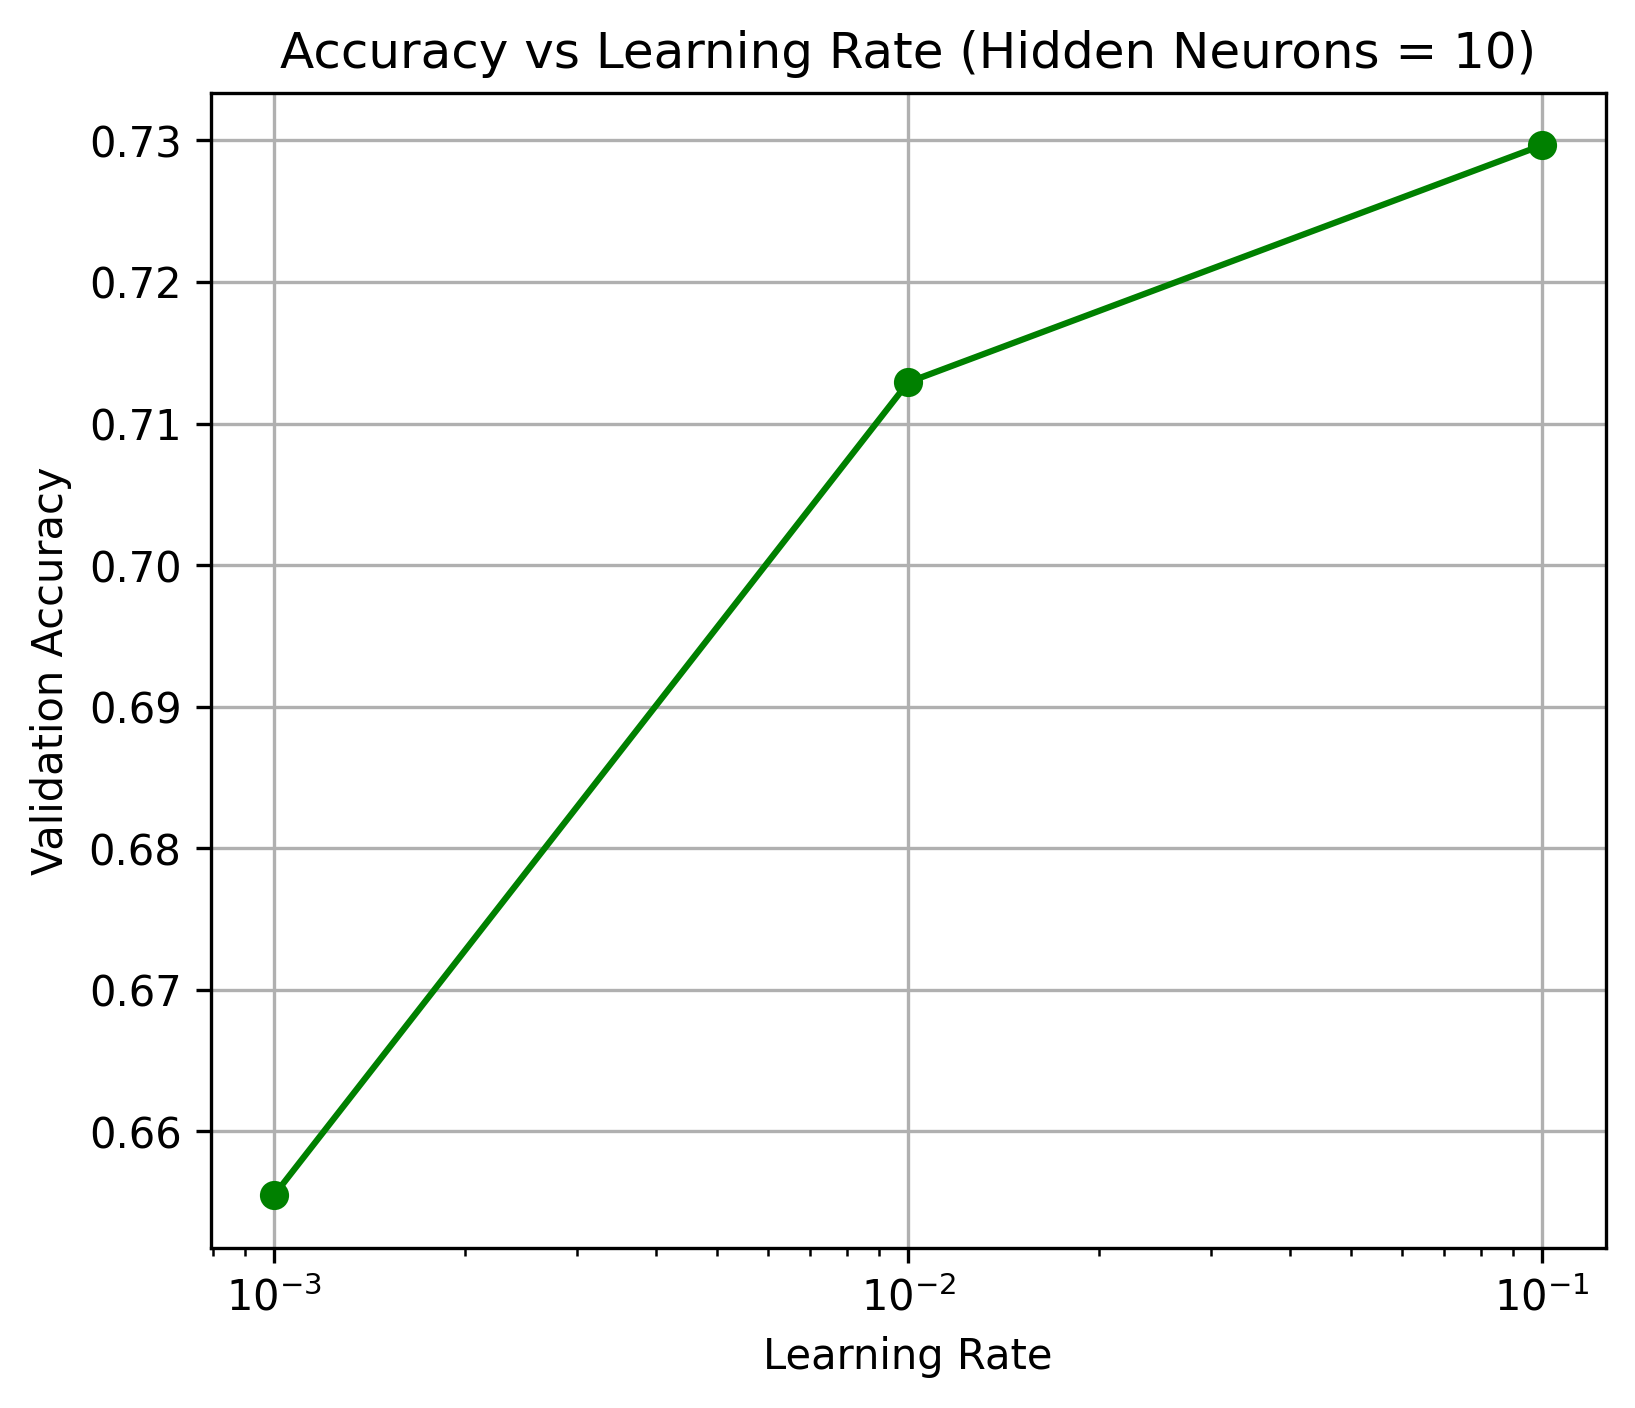
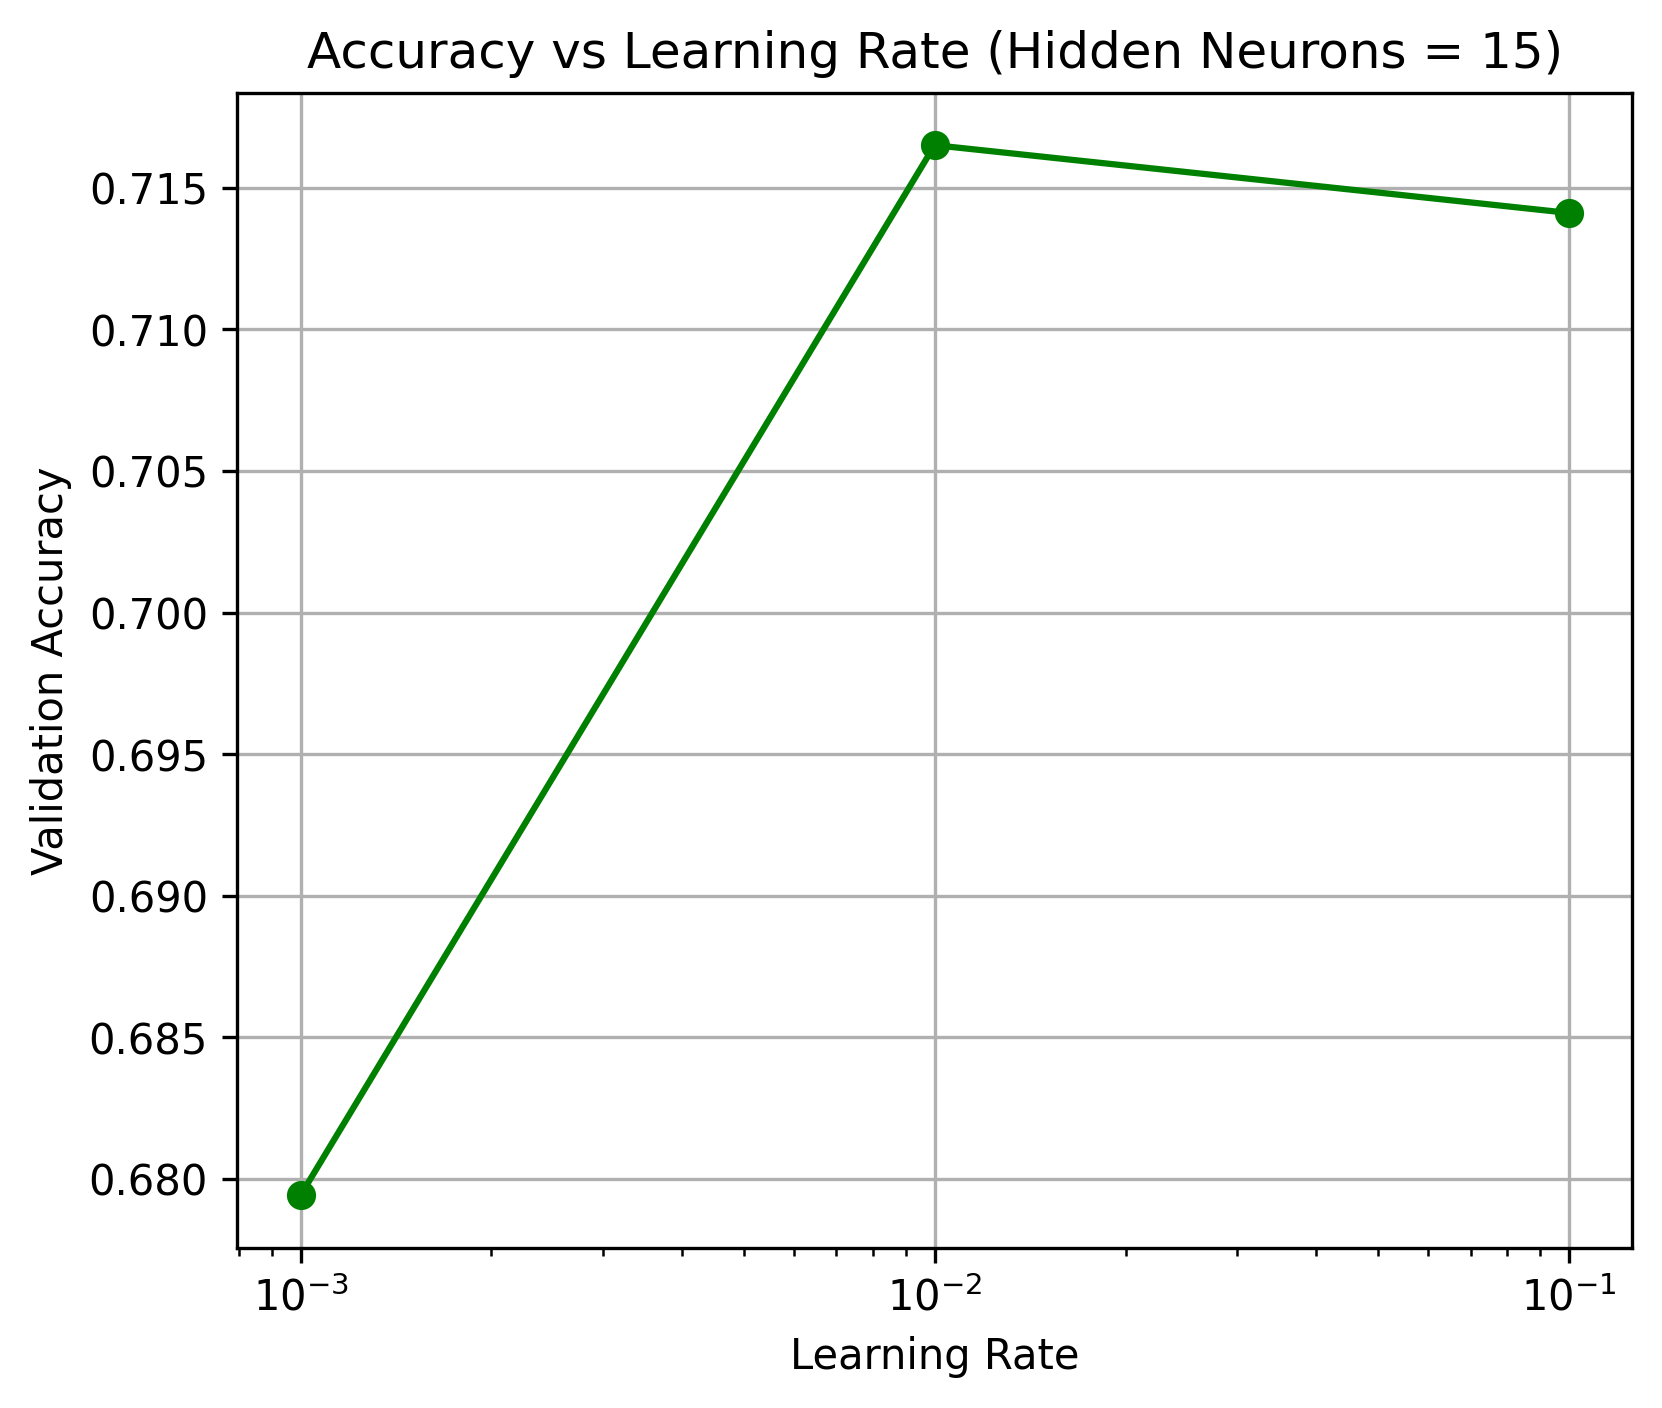
cmt

diff --git a/05MLDataMining/project/model.py b/05MLDataMining/project/model.py
@@ -1,13 +1,19 @@
 import os
+os.environ['TF_CPP_MIN_LOG_LEVEL'] = '3'  # 0 = all logs, 1 = filter INFO, 2 = filter WARNING, 3 = filter ERROR
+import numpy as np
 import pandas as pd
 import matplotlib.pyplot as plt
 import seaborn as sns
+from keras import Input
 from sklearn.model_selection import train_test_split
 from sklearn.preprocessing import StandardScaler
 from tensorflow.keras.layers import Dense
-from tensorflow.keras.optimizers import SGD
+from tensorflow.keras.optimizers import SGD, Adam
 from tensorflow.keras.models import Sequential
 from tensorflow.keras.metrics import AUC
+from sklearn.metrics import confusion_matrix, ConfusionMatrixDisplay, roc_curve, auc
+from sklearn.preprocessing import label_binarize
+from tensorflow.keras.utils import to_categorical
 
 """ Functions for Assessment 3: ZZSC5836 Data Mining and Machine Learning: """
 
@@ -19,12 +25,13 @@ from tensorflow.keras.metrics import AUC
 
 def build_and_train_model(X_train, X_test, y_train, y_test, hidden_neurons, learning_rate=0.01):
     model = Sequential()
-    model.add(Dense(hidden_neurons, activation='relu', input_shape=(X_train.shape[1],)))
+    model.add(Input(shape=(X_train.shape[1],)))
+    model.add(Dense(hidden_neurons, activation='relu'))
     model.add(Dense(4, activation='softmax'))  # 4 classes
     model.compile(optimizer=SGD(learning_rate),
                   loss='sparse_categorical_crossentropy',
                   metrics=['accuracy'])
-    history = model.fit(X_train, y_train, epochs=50, batch_size=32, verbose=0, validation_data=(X_test, y_test))
+    history = model.fit(X_train, y_train, epochs=100, batch_size=32, verbose=0, validation_data=(X_test, y_test))
     accuracy = model.evaluate(X_test, y_test, verbose=0)[1]  # Accuracy
     return accuracy, history
 
@@ -61,8 +68,8 @@ def evaluate_hidden_neurons(df, neuron_options=None):
     return best_neurons, scores
 
 
-""" 3. Investigate the effect of learning rate (using SGD) for the selected dataset
-       (using the optimal number of hidden neurons)."""
+""" # 3. Investigate the effect of learning rate (using SGD) for the selected dataset
+         (using the optimal number of hidden neurons)."""
 
 
 def evaluate_learning_rates(df, best_neurons, learning_rate_options=None):
@@ -95,6 +102,164 @@ def evaluate_learning_rates(df, best_neurons, learning_rate_options=None):
     save_plot('Accuracy-vs-Learning-Rate')
     plt.show(block=False)
     return best_lr, scores
+
+
+""" # 4. Investigate the effect on a different number of hidden layers:  
+         Now modify the model by adding another hidden layer. Use the optimal number of hidden neurons
+         from Step 2 for both the layers and the optimal learning rate from Step 3.
+         Investigate the effect of this change in the number of hidden layers (using SGD). """
+
+
+def evaluate_hidden_layers_effect(df, best_neurons, best_learning_rate):
+    # Split features and target
+    X = df.drop("RingAgeClass", axis=1).values
+    y = df["RingAgeClass"].astype(int).values
+    # Normalize features
+    scaler = StandardScaler()
+    X_scaled = scaler.fit_transform(X)
+    # Train/test split
+    X_train, X_test, y_train, y_test = train_test_split(X_scaled, y, test_size=0.2, random_state=42)
+    def build_model(layers=1):
+        model = Sequential()
+        model.add(Input(shape=(X_train.shape[1],)))
+        model.add(Dense(best_neurons, activation='relu'))
+        if layers == 2:
+            model.add(Dense(best_neurons, activation='relu'))
+        model.add(Dense(4, activation='softmax'))  # 4 classes
+        model.compile(optimizer=SGD(learning_rate=best_learning_rate),
+                      loss='sparse_categorical_crossentropy',
+                      metrics=['accuracy'])
+        return model
+    scores = {}
+    # Single hidden layer
+    model_1 = build_model(layers=1)
+    history_1 = model_1.fit(X_train, y_train, epochs=100, batch_size=32, verbose=0, validation_data=(X_test, y_test))
+    acc_1 = model_1.evaluate(X_test, y_test, verbose=0)[1]
+    scores[1] = acc_1
+    print(f"\nAccuracy with 1 Hidden Layer: {acc_1:.4f}")
+    # Two hidden layers
+    model_2 = build_model(layers=2)
+    history_2 = model_2.fit(X_train, y_train, epochs=100, batch_size=32, verbose=0, validation_data=(X_test, y_test))
+    acc_2 = model_2.evaluate(X_test, y_test, verbose=0)[1]
+    scores[2] = acc_2
+    print(f"Accuracy with 2 Hidden Layers: {acc_2:.4f}")
+    # Three hidden layers
+    model_3 = build_model(layers=3)
+    history_3 = model_3.fit(X_train, y_train, epochs=100, batch_size=32, verbose=0, validation_data=(X_test, y_test))
+    acc_3 = model_3.evaluate(X_test, y_test, verbose=0)[1]
+    scores[3] = acc_3
+    print(f"Accuracy with 3 Hidden Layers: {acc_3:.4f}")
+    # Determine optimal layers
+    best_number_of_layers = max(scores, key=scores.get)
+    # Plotting the comparison
+    plt.figure(figsize=(6, 5))
+    plt.bar(scores.keys(), scores.values(), color=['blue', 'orange'])
+    plt.title(f"Effect of Hidden Layer Count (neurons={best_neurons}, lr={best_learning_rate})")
+    plt.ylabel("Validation Accuracy")
+    plt.ylim(0, 1)
+    plt.grid(axis='y')
+    save_plot("Hidden-Layer-Effect")
+    plt.show(block=False)
+    return best_number_of_layers, scores
+
+
+""" # 5. Investigate the effect of Adam and SGD on training and test performance. """
+
+
+def evaluate_optimizers(df, best_neurons, best_learning_rate, best_number_of_layers):
+    # Prepare features and labels
+    X = df.drop("RingAgeClass", axis=1).values
+    y = df["RingAgeClass"].astype(int).values
+    # Normalize features
+    scaler = StandardScaler()
+    X_scaled = scaler.fit_transform(X)
+    # Train/test split
+    X_train, X_test, y_train, y_test = train_test_split(X_scaled, y, test_size=0.2, random_state=42)
+    def build_model(optimizer_name):
+        model = Sequential()
+        model.add(Input(shape=(X_train.shape[1],)))
+        model.add(Dense(best_neurons, activation='relu'))
+        if best_number_of_layers == 2:
+            model.add(Dense(best_neurons, activation='relu'))
+        model.add(Dense(4, activation='softmax'))
+        if optimizer_name == "SGD":
+            optimizer = SGD(learning_rate=best_learning_rate)
+        elif optimizer_name == "Adam":
+            optimizer = Adam(learning_rate=best_learning_rate)
+        model.compile(optimizer=optimizer,
+                      loss='sparse_categorical_crossentropy',
+                      metrics=['accuracy'])
+        return model
+    optimizers = ["SGD", "Adam"]
+    scores = {}
+    for opt in optimizers:
+        model = build_model(opt)
+        model.fit(X_train, y_train, epochs=50, batch_size=32, verbose=0, validation_data=(X_test, y_test))
+        acc = model.evaluate(X_test, y_test, verbose=0)[1]
+        scores[opt] = acc
+        print(f"Optimizer: {opt} → Accuracy: {acc:.4f}")
+    best_optimizer = max(scores, key=scores.get)
+    return best_optimizer, scores
+
+
+""" # 6. Take the final optimal model among all the above cases and show the confusion matrix
+         and ROC/AUC curve for different classes of the multi-class problem. """
+
+
+def evaluate_final_model_metrics(df, best_neurons, best_learning_rate, best_number_of_layers, best_optimizer):
+    # Prepare data
+    X = df.drop("RingAgeClass", axis=1).values
+    y = df["RingAgeClass"].astype(int).values
+    class_labels = np.unique(y)
+    n_classes = len(class_labels)
+    # Normalize and split
+    scaler = StandardScaler()
+    X_scaled = scaler.fit_transform(X)
+    X_train, X_test, y_train, y_test = train_test_split(X_scaled, y, test_size=0.2, random_state=42)
+    # Binarize labels for ROC curve
+    y_train_bin = label_binarize(y_train, classes=class_labels)
+    y_test_bin = label_binarize(y_test, classes=class_labels)
+    # Build model
+    model = Sequential()
+    model.add(Input(shape=(X_train.shape[1],)))
+    model.add(Dense(best_neurons, activation='relu'))
+    if best_number_of_layers == 2:
+        model.add(Dense(best_neurons, activation='relu'))
+    model.add(Dense(n_classes, activation='softmax'))
+    optimizer = SGD(learning_rate=best_learning_rate) if best_optimizer == "SGD" else Adam(learning_rate=best_learning_rate)
+    model.compile(optimizer=optimizer,
+                  loss='categorical_crossentropy',
+                  metrics=['accuracy'])
+    # Train model with one-hot labels
+    model.fit(X_train, to_categorical(y_train_bin), epochs=50, batch_size=32, verbose=0, validation_data=(X_test, to_categorical(y_test_bin)))
+    # Predict classes for confusion matrix
+    y_pred = model.predict(X_test)
+    y_pred_classes = np.argmax(y_pred, axis=1)
+    # Confusion Matrix
+    cm = confusion_matrix(y_test, y_pred_classes)
+    disp = ConfusionMatrixDisplay(confusion_matrix=cm, display_labels=class_labels)
+    disp.plot(cmap='Blues')
+    plt.title("Confusion Matrix")
+    save_plot("Confusion-Matrix")
+    plt.show(block=False)
+    # ROC + AUC
+    fpr = {}
+    tpr = {}
+    roc_auc = {}
+    for i in range(n_classes):
+        fpr[i], tpr[i], _ = roc_curve(y_test_bin[:, i], y_pred[:, i])
+        roc_auc[i] = auc(fpr[i], tpr[i])
+    plt.figure(figsize=(8, 6))
+    for i in range(n_classes):
+        plt.plot(fpr[i], tpr[i], label=f'Class {class_labels[i]} (AUC = {roc_auc[i]:.2f})')
+    plt.plot([0, 1], [0, 1], 'k--', label='Chance')
+    plt.title('ROC Curves by Class')
+    plt.xlabel('False Positive Rate')
+    plt.ylabel('True Positive Rate')
+    plt.legend()
+    plt.grid(True)
+    save_plot("ROC-Curves-Multiclass")
+    plt.show(block=True)
 
 
 """ # 1. Analyse and visualise the given datasets by reporting the distribution of classes,
@@ -212,8 +377,10 @@ def main():
     # print(f'\nRaw Abalone Data.\n{df_abalone_data.head()}')
     # Clean abalone data: OneHotEncoding for Sex
     df_clean_abalone = clean_data(df_abalone_data)
-    """ # 1. Analyse and visualise the given datasets by reporting the distribution of classes,
-    distribution of features and any other visualisation you find appropriate."""
+    print(f'\n--------------------------------------------------------------------------')
+    print(f'1. Analyse and visualise the given datasets by reporting the distribution of classes, '
+          f'\ndistribution of features and any other visualisation you find appropriate.')
+    print(f'--------------------------------------------------------------------------')
     # print(f'\nClean Abalone Data (One Hot Encoded Sex).\n{df_clean_abalone.head(5)}')
     plot_ring_age_correlation_heatmap(df_clean_abalone)
     # Classify abalone data:
@@ -222,16 +389,56 @@ def main():
     plot_ring_age_percentage_histogram(df_abalone)
     # print("Current working directory:", os.getcwd())
     # df_abalone = df_abalone["RingAgeClass"].astype(int) - 1
-    print(f'\nTraining Neural Network with df_abalone.head()\n{df_abalone.head(5)}'
+    print(f'Cleaned Data: df_abalone.head()\n{df_abalone.head(5)}'
+          f'\n--------------------------------------------------------------------------'
           f'\nType of columns in df_abalone: {df_abalone.dtypes}'
+          f'\n--------------------------------------------------------------------------'
           f'\nNumber of rows in df_abalone: {df_abalone.shape[0]}')
+    print(f'--------------------------------------------------------------------------')
+    print(f'\n--------------------------------------------------------------------------')
+    print(f'2. Develop a dense neural network with one hidden layer. Vary the number of hidden neurons '
+          f'\nto be 5, 10, 15, and 20 in order to investigate the performance of the model using '
+          f'\nStochastic Gradient Descent (SGD). Determine the optimal number of neurons in the '
+          f'\nhidden layer from the range of values considered.')
+    print(f'--------------------------------------------------------------------------')
     neuron_options = [5, 10, 15, 20]
-    best_neurons, scores = evaluate_hidden_neurons(df_abalone, neuron_options)
-    print(f"\nBest number of hidden neurons: {best_neurons} with Accuracy: {scores[best_neurons]:.4f}")
+    best_neurons, neuron_scores = evaluate_hidden_neurons(df_abalone, neuron_options)
+    print(f"Best number of hidden neurons: {best_neurons} :: Accuracy: {neuron_scores[best_neurons]:.4f}\n\n")
+    print(f'--------------------------------------------------------------------------')
+    print(f'\n--------------------------------------------------------------------------')
+    print(f'3. Investigate the effect of learning rate (using SGD) for the selected dataset '
+          f'\n(using the optimal number of hidden neurons).')
+    print(f'--------------------------------------------------------------------------')
     learning_rate_options = [0.1, 0.01, 0.001]
-    best_learning_rate, scores = evaluate_learning_rates(df_abalone, best_neurons, learning_rate_options)
-    print(f"\nBest Learning Rate: {best_learning_rate} for Best hidden neurons: {best_neurons}"
-          f"is with Accuracy: {scores[best_learning_rate]:.4f}")
+    best_learning_rate, lr_scores = evaluate_learning_rates(df_abalone, best_neurons, learning_rate_options)
+    print(f"Best Learning Rate: {best_learning_rate} for Best hidden neurons: {best_neurons} "
+          f":: Accuracy: {lr_scores[best_learning_rate]:.4f}\n\n")
+    print(f'--------------------------------------------------------------------------')
+    print(f'\n--------------------------------------------------------------------------')
+    print(f'4. Investigate the effect on a different number of hidden layers:  Now modify the model '
+          f'\nby adding another hidden layer. Use the optimal number of hidden neurons from Step 2 for '
+          f'\nboth the layers and the optimal learning rate from Step 3. Investigate the effect of this '
+          f'\nchange in the number of hidden layers (using SGD).')
+    print(f'--------------------------------------------------------------------------')
+    best_number_of_layers, layer_scores = evaluate_hidden_layers_effect(df_abalone, best_neurons, best_learning_rate)
+    print(f"\nBest Number of Hidden Layers: {best_number_of_layers} for Best Learning Rate: {best_learning_rate} "
+          f"for Best hidden neurons: {best_neurons} :: Accuracy: {layer_scores[best_number_of_layers]:.4f}\n\n")
+    print(f'--------------------------------------------------------------------------')
+    print(f'\n--------------------------------------------------------------------------')
+    print(f'5. Investigate the effect of Adam and SGD on training and test performance.')
+    print(f'--------------------------------------------------------------------------')
+    best_optimizer, opt_scores = evaluate_optimizers(df_abalone, best_neurons, best_learning_rate, best_number_of_layers)
+    print(f"\nBest Optimizer: {best_optimizer} for Best Number of Hidden Layers: {best_number_of_layers} "
+          f"for Best Learning Rate: {best_learning_rate} for Best hidden neurons: {best_neurons} "
+          f":: Accuracy: {opt_scores[best_optimizer]:.4f}\n\n")
+    print(f'--------------------------------------------------------------------------')
+    print(f'\n--------------------------------------------------------------------------')
+    print(f'6. Take the final optimal model among all the above cases and show the confusion matrix '
+          f'\nand ROC/AUC curve for different classes of the multi-class problem.')
+    print(f'--------------------------------------------------------------------------')
+    evaluate_final_model_metrics(df_abalone, best_neurons, best_learning_rate, best_number_of_layers, best_optimizer)
+    print(f'--------------------------------------------------------------------------')
+    print(f'--------------------------------------------------------------------------')
 
 
 if __name__ == "__main__":
